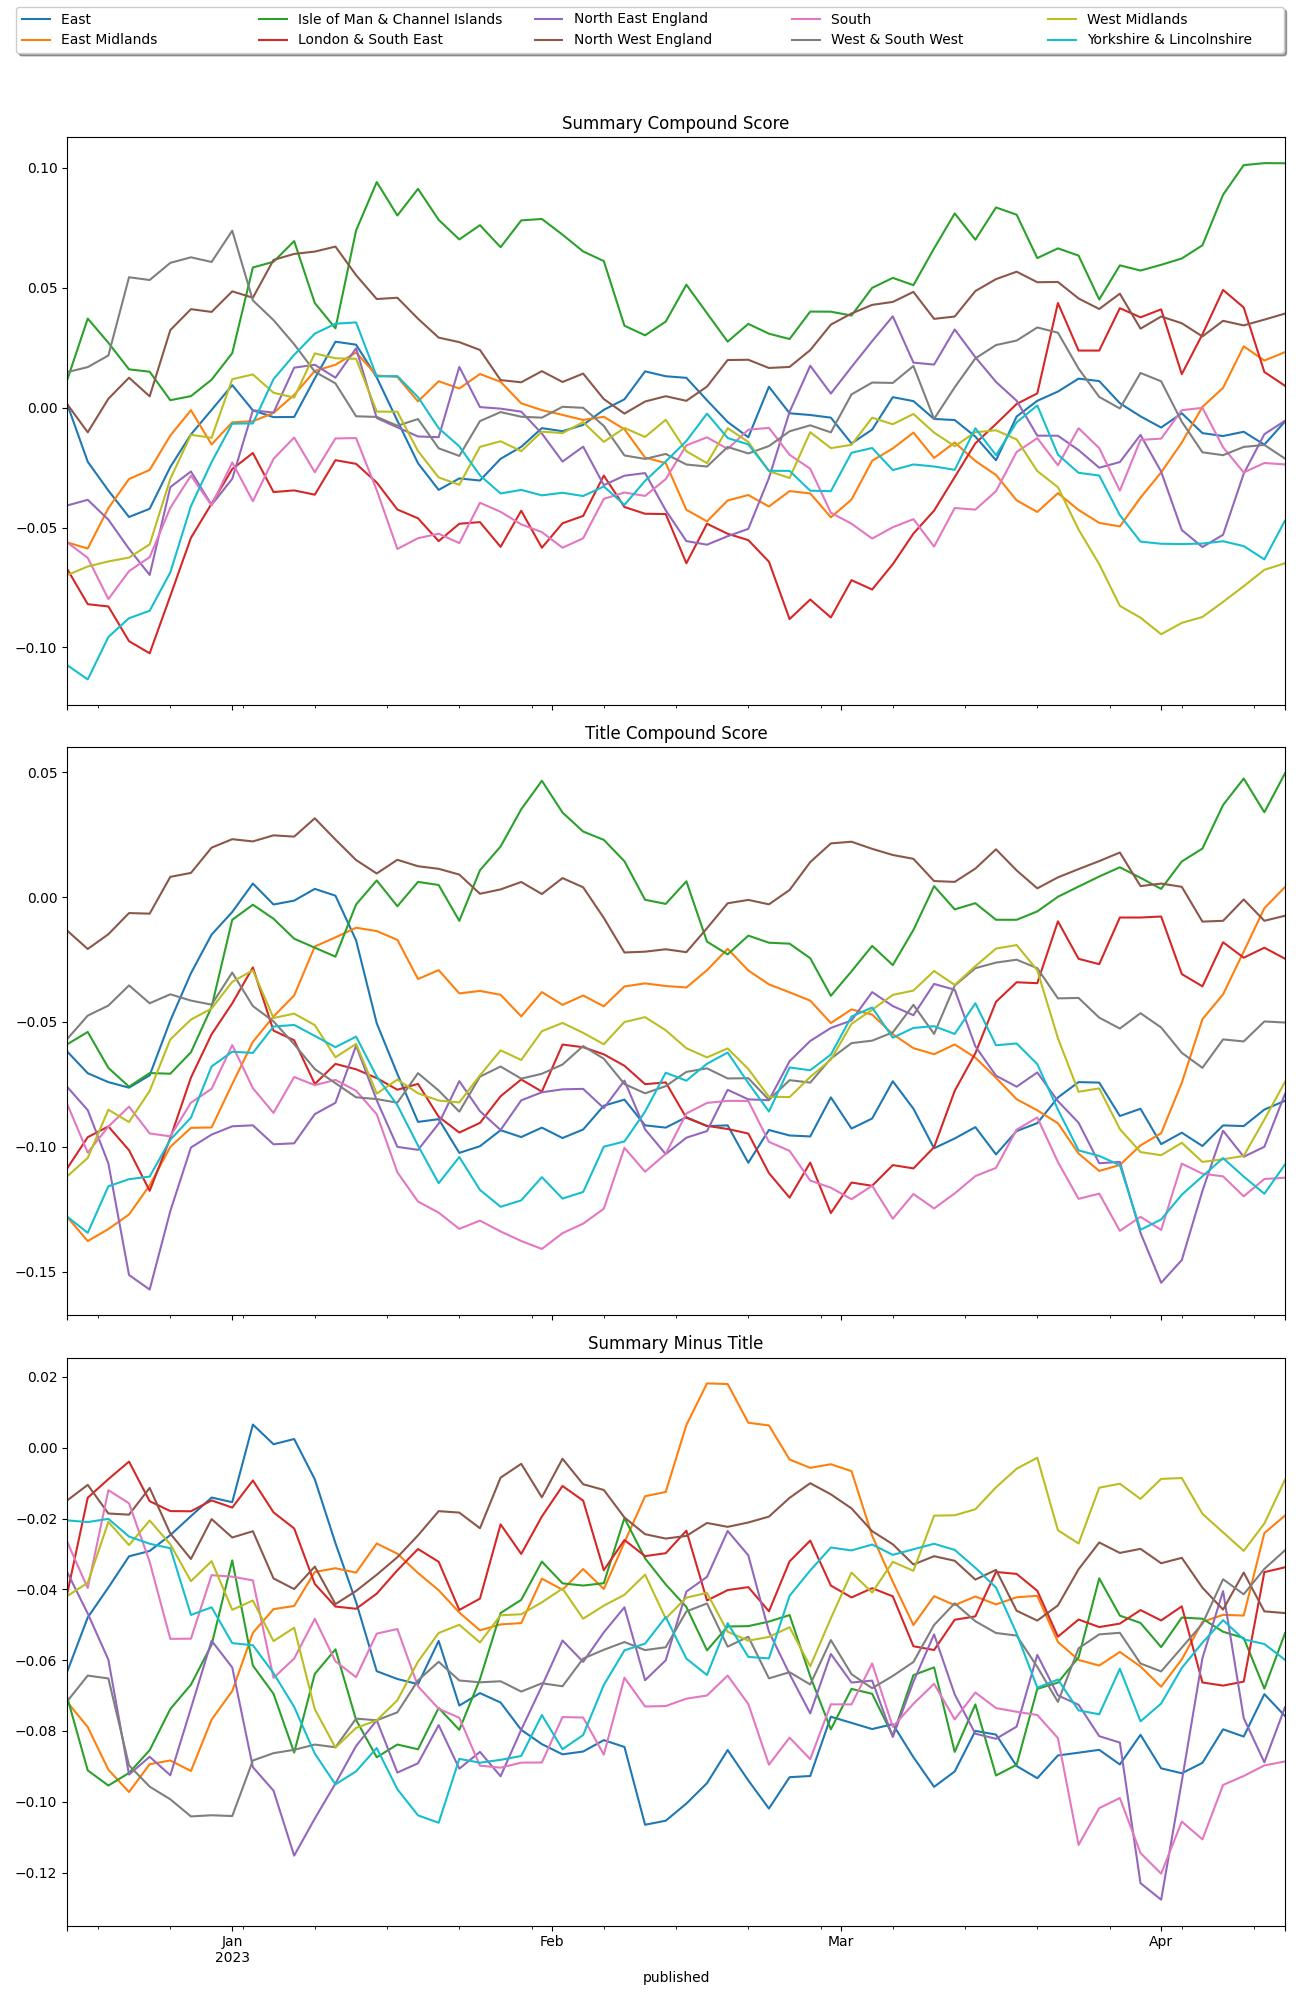
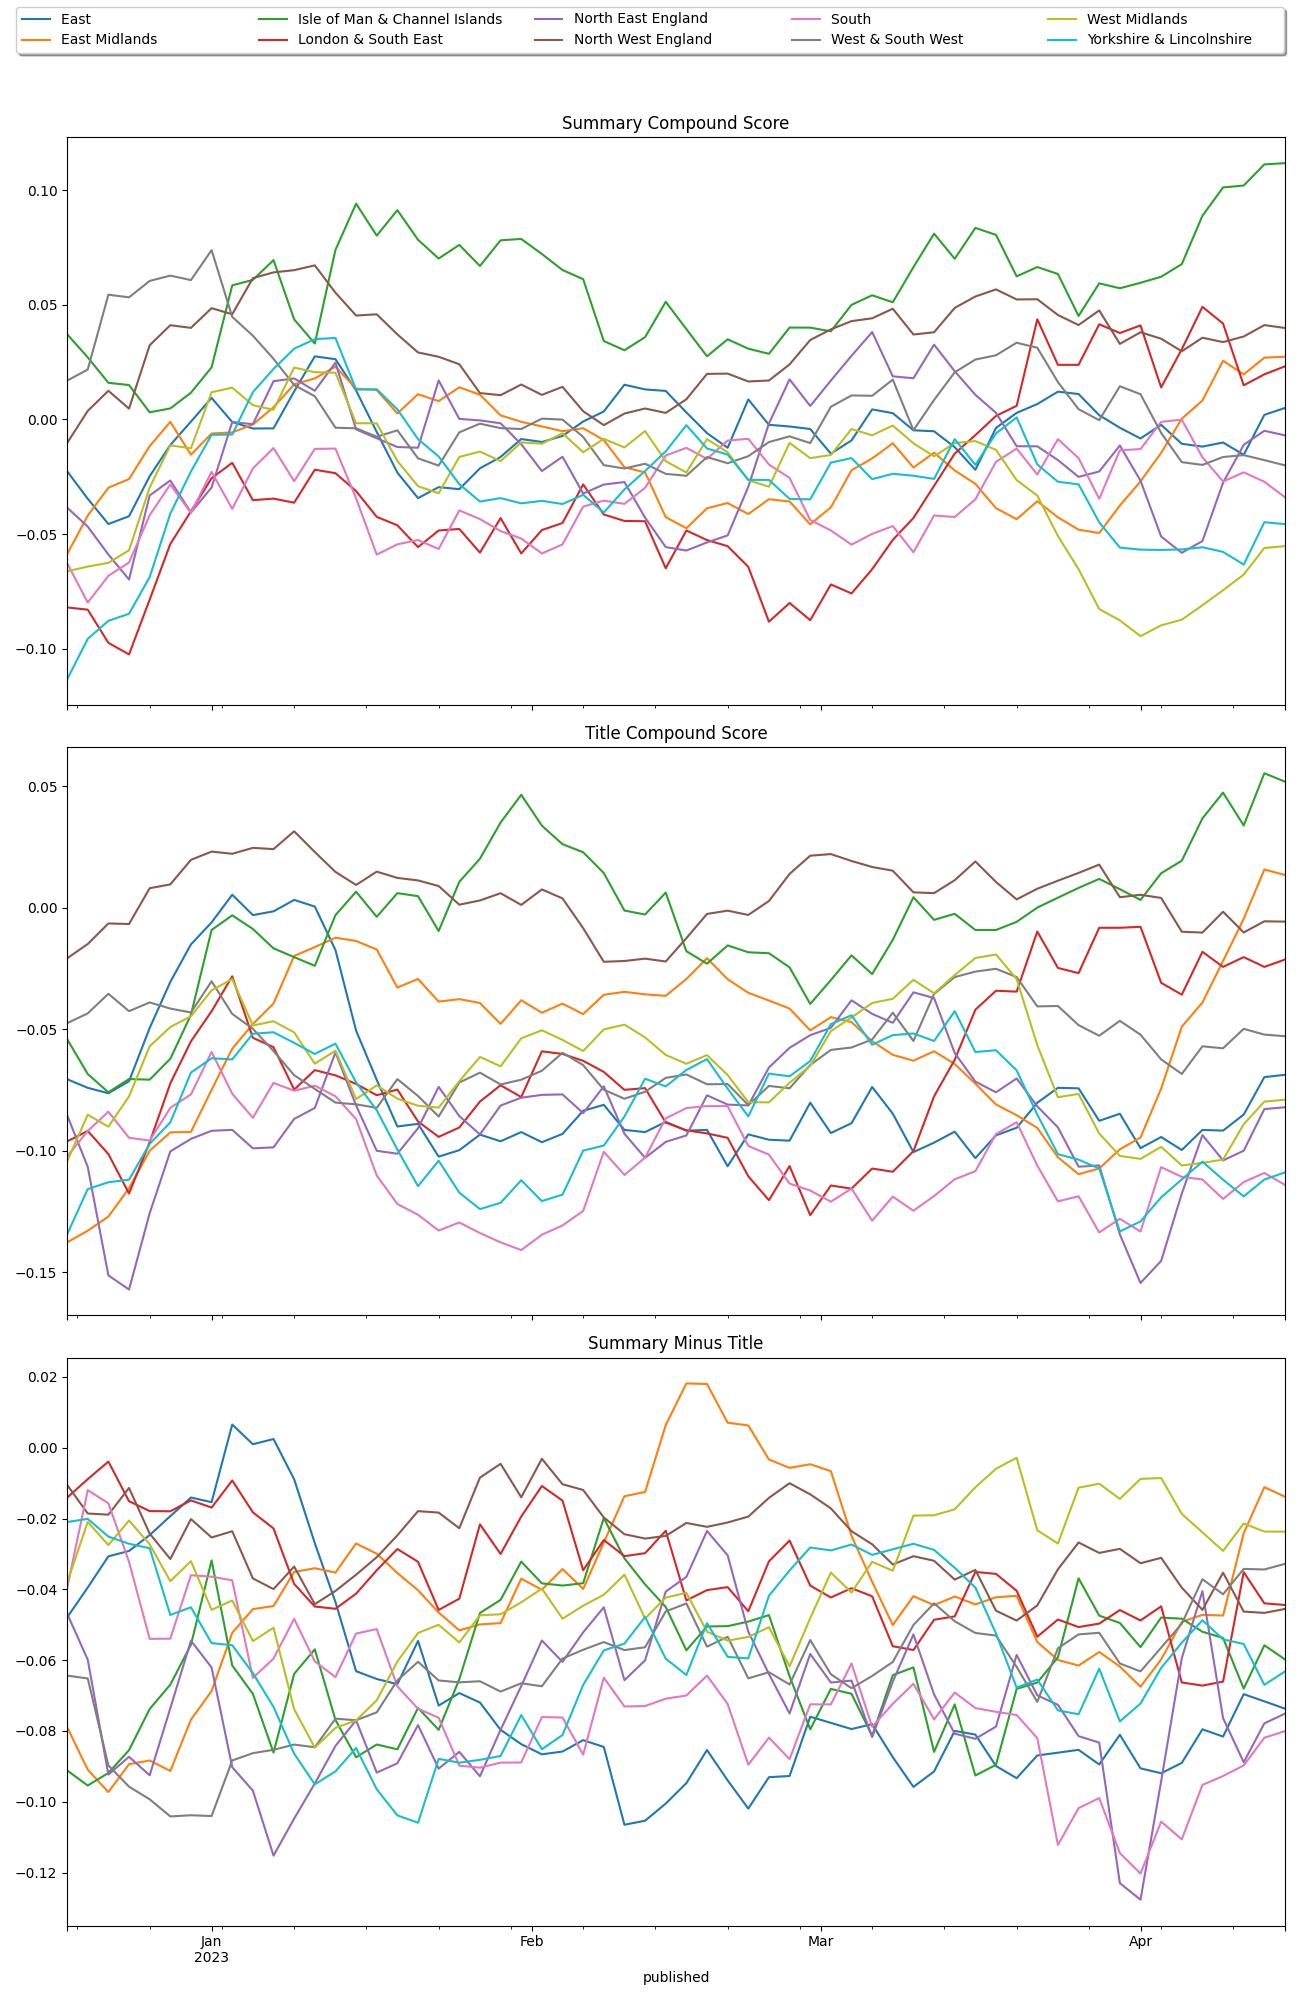
at 2023-04-15 10:45 ran: [Stage: 'complete-basic_report']

diff --git a/reports/complete/latest.md b/reports/complete/latest.md
@@ -1,12 +1,12 @@
-| region                        | published                        | summary                                                                                                                                                           | title                                                   | url                                          |   summary_compound_score |   title_compound_score |   summary_minus_title |
-|:------------------------------|:---------------------------------|:------------------------------------------------------------------------------------------------------------------------------------------------------------------|:--------------------------------------------------------|:---------------------------------------------|-------------------------:|-----------------------:|----------------------:|
-| East                          | 2023-04-14 09:22:57.185000+00:00 | Ashes interred on the pitch "will inevitably be disturbed" when a new surface is laid, a club says.                                                               | Memorial garden planned for football pitch ashes        | /news/articles/c19wxzrw370o                  |                  -0.3818 |                 0      |                0.3818 |
-| East Midlands                 | 2023-04-14 09:14:35+00:00        | Stewart Ramsay suffered fatal head injuries after an incident on 15 March 2017.                                                                                   | Firm fined £1m after death of employee                  | /news/uk-england-nottinghamshire-65254914    |                  -0.7717 |                -0.5994 |                0.1723 |
-| Isle of Man & Channel Islands | 2023-04-14 09:23:50+00:00        | Jersey Reds forward Max Argyle prepares to make his 150th appearance for the Championship club.                                                                   | Argyle prepares for Jersey Reds landmark                | /sport/rugby-union/65273710                  |                   0.4404 |                 0.0772 |               -0.3632 |
-| London & South East           | 2023-04-14 08:58:54+00:00        | New Brighton manager Melissa Phillips relishes challenge of guiding Brighton to a first Women's FA Cup final - and then keeping them in the Women's Super League. | ‘My heart is here’ – Phillips has Brighton ambition     | /sport/football/65268025                     |                   0.6369 |                 0      |               -0.6369 |
-| North East England            | 2023-04-14 09:19:18+00:00        | Commuters are advised to use local bus services as Metro trains are part-suspended.                                                                               | Trains cancelled after cable theft                      | /news/uk-england-tyne-65272529               |                   0      |                -0.25   |               -0.25   |
-| North West England            | 2023-04-14 09:30:23.782000+00:00 |                                                                                                                                                                   | Klopp welcomes 'special' Diaz back for Liverpool        | /sport/articles/c4njq724zglo                 |                   0      |                 0.4019 |                0.4019 |
-| South                         | 2023-04-14 05:15:29+00:00        | A new strategy for the Thames Valley will see 150 officers allocated to focus on community policing.                                                              | More neighbourhood police officers announced            | /news/uk-england-oxfordshire-65267101        |                   0      |                 0      |                0      |
-| West & South West             | 2023-04-14 09:17:54+00:00        | Preliminary work is underway near Gloucester ahead of the main roadworks starting in autumn.                                                                      | Start of major road scheme 'like Christmas Eve'         | /news/uk-england-gloucestershire-65270728    |                   0      |                 0.3612 |                0.3612 |
-| West Midlands                 | 2023-04-14 09:13:10+00:00        | They were sent to Louise Brookes, from Worcestershire, whose brother was a victim of the disaster.                                                                | Man admits sending offensive Hillsborough tweets        | /news/uk-england-hereford-worcester-65269368 |                  -0.7351 |                -0.2023 |                0.5328 |
-| Yorkshire & Lincolnshire      | 2023-04-14 09:13:00.203000+00:00 | Sir Robert, who had a majority of over 10,000 in 2019, says he will not stand at the next election.                                                               | Long-standing MP to step down at  next general election | /news/articles/c901e1ldg8wo                  |                   0      |                 0      |                0      |
+| region                        | published                 | summary                                                                                                                                       | title                                             | url                                           |   summary_compound_score |   title_compound_score |   summary_minus_title |
+|:------------------------------|:--------------------------|:----------------------------------------------------------------------------------------------------------------------------------------------|:--------------------------------------------------|:----------------------------------------------|-------------------------:|-----------------------:|----------------------:|
+| East                          | 2023-04-15 07:27:08+00:00 | Voters will go to the polls on all councils in Suffolk and there could be some interesting battles.                                           | What is at stake in Suffolk's local elections?    | /news/uk-england-suffolk-65267452             |                   0.0258 |                 0      |               -0.0258 |
+| East Midlands                 | 2023-04-15 09:04:53+00:00 | Two 13-year-olds previously arrested on suspicion of arson have been released on police bail.                                                 | Third arrest over former bingo hall fire          | /news/uk-england-northamptonshire-65284980    |                  -0.6908 |                -0.5859 |                0.1049 |
+| Isle of Man & Channel Islands | 2023-04-15 08:20:39+00:00 | The World Manx Association has welcomed "home comers" back to the island for more than 110 years.                                             | Society uniting island expats at risk of closure  | /news/world-europe-isle-of-man-65279307       |                   0.34   |                -0.2732 |               -0.6132 |
+| London & South East           | 2023-04-15 05:21:44+00:00 | Manchester United defender Maya Le Tissier speaks about her rise in the Women's Super League and how her team are hoping to "win everything". | Man Utd hoping to 'win everything'                | /sport/av/football/65251387                   |                   0.9287 |                 0.765  |               -0.1637 |
+| North East England            | 2023-04-15 08:06:11+00:00 | Tabby Olive is believed to have got trapped after seeking warmth in the vehicle's engine bay.                                                 | Missing cat found under school minibus bonnet     | /news/uk-england-tyne-65280197                |                  -0.1027 |                -0.296  |               -0.1933 |
+| North West England            | 2023-04-15 09:26:28+00:00 | All the entries and weights for the 2023 Grand National at Aintree on 15 April.                                                               | Grand National: Quick guide to runners            | /sport/horse-racing/65111052                  |                   0.4588 |                 0.4588 |                0      |
+| South                         | 2023-04-15 08:26:24+00:00 | Slough Borough Council says there have been a rise in abuse and assaults at its recycling centre.                                             | Tip staff get bodycams after increase in assaults | /news/uk-england-berkshire-65279403           |                  -0.8271 |                -0.296  |                0.5311 |
+| West & South West             | 2023-04-15 09:04:28+00:00 | A High Court judge ruled in January that wild camping on Dartmoor required landowner permission.                                              | Unanimous vote to appeal wild camping ban         | /news/uk-england-devon-65277602               |                   0      |                -0.5574 |               -0.5574 |
+| West Midlands                 | 2023-04-15 07:15:45+00:00 | The initiative aims to make the city centre a more welcoming place for shoppers and visitors.                                                 | Volunteers sought for city centre clean-up        | /news/uk-england-stoke-staffordshire-65274690 |                   0.4927 |                 0      |               -0.4927 |
+| Yorkshire & Lincolnshire      | 2023-04-15 07:45:02+00:00 | A project to build two steam locomotives is under way at a workshop in Sheffield.                                                             | New steam locomotives on show                     | /news/uk-england-south-yorkshire-65280261     |                   0      |                 0      |                0      |
